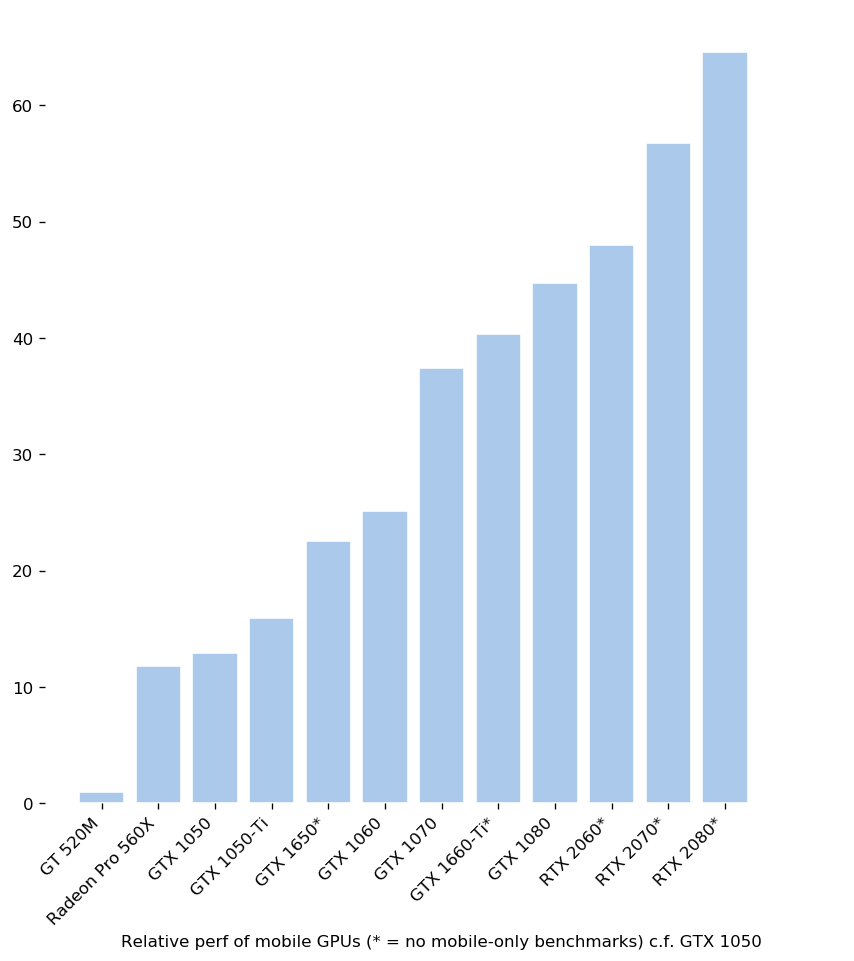
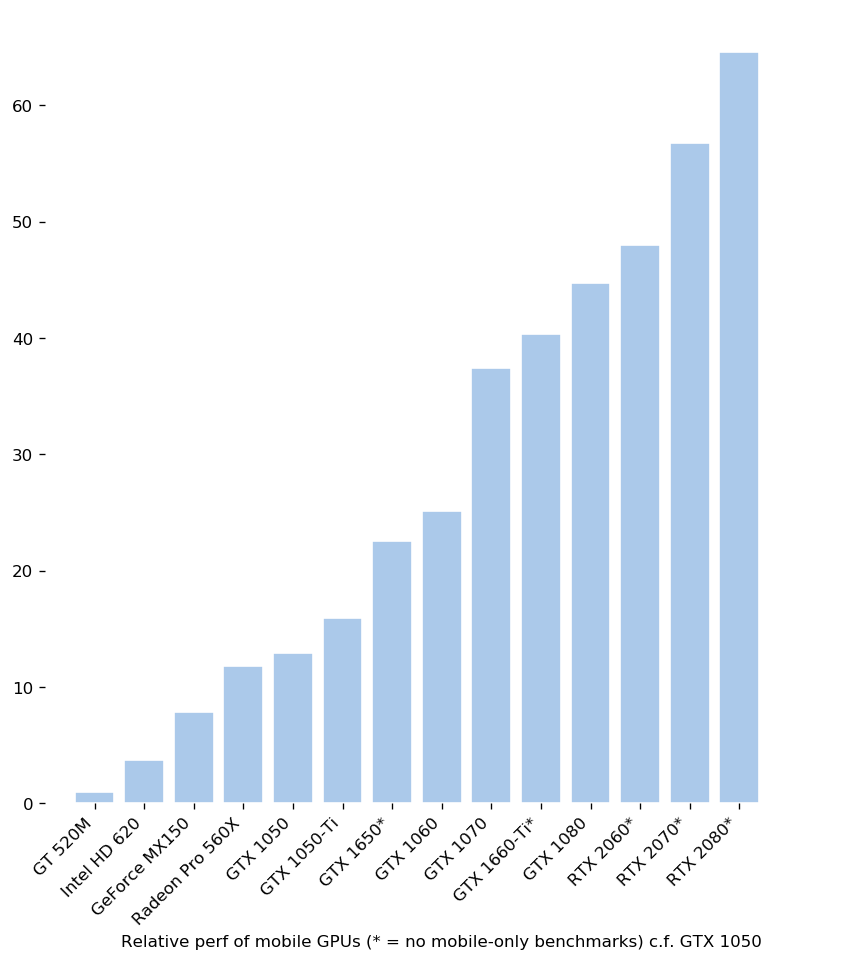
add MX150 and IHD 620

Changed region(s): [[0.0304, 0.0312, 0.9133, 0.9677]]

diff --git a/generate_graph.py b/generate_graph.py
@@ -18,6 +18,8 @@ import seaborn as sns
 METRICS = OrderedDict(
     sorted({
         "GT 520M":         (2.26 / 29.3, True,  False),
+        "GeForce MX150":   (17.7 / 29.3, True,  False),
+        "Intel HD 620":    (8.35 / 29.3, True,  False),
         "GTX 1050":        (1.,          True,  False),
         "Radeon Pro 560X": (26.6 / 29.3, True,  False),
         "GTX 1050-Ti":     (1.23,        True,  True),
